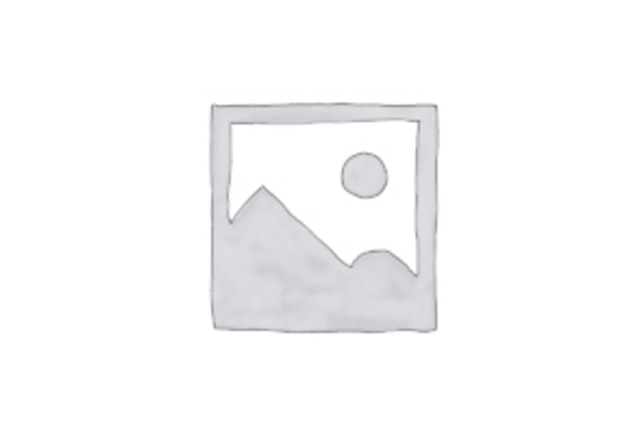
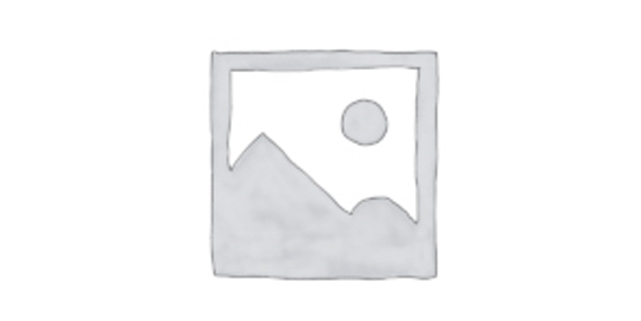
redigeret i billeder og added baggrund til bokse

diff --git a/src/main/resources/templates/index.html b/src/main/resources/templates/index.html
@@ -13,10 +13,11 @@
 </div>
 <div class="container w3-center">
     <div th:each="activity: ${activities}" class="box">
+        <a  th:href="@{/activity/{id}/equipment(id=${activity.id})}">
         <img src="" th:src="@{${'/images/' + activity.image}}" alt="Missing image">
         <h2 th:unless="${activity.name == null}" th:text="${activity.name}"></h2>
         <h2 th:if="${activity.name == null}" th:text="Missing Name"></h2>
-        <div style="padding: 2% 0 0 0;">
+        <div style="padding: 2% 0 2% 0;">
             <p th:unless="${activity.getRules().ageLimit == null}" th:text="'Age requirement: ' + ${activity.getRules().ageLimit}"></p>
             <p th:unless="${activity.getRules().heightLimit == null}" th:text="'Height requiment: ' + ${activity.getRules().heightLimit}"></p>
             <p th:unless="${activity.getRules().duration} == null" th:text="'Duration: ' + ${activity.getRules().duration}"></p>
@@ -25,7 +26,12 @@
             <p th:unless="${activity.getPricing().discount == null}" th:text="'Price for 10+ persons: ' + ${activity.getPricing().discount}"></p>
             <p th:text="'Available equipment: ' + ${activity.availableEquipment()} + '/' + ${activity.getEquipment().size()}"></p>
         </div>
-        <a th:href="@{/activity/{id}/equipment(id=${activity.id})}" class="w3-btn w3-green">View equipment</a>
+        </a>
+<!--        <a th:href="@{/activity/{id}/equipment(id=${activity.id})}" class="w3-btn" style="width: 100%; height: 10%; backdrop-filter: blur(5px)">-->
+<!--            <div>-->
+<!--                View equipment-->
+<!--            </div>-->
+<!--        </a>-->
     </div>
 </div>
 </body>

diff --git a/src/main/resources/static/css/masonry.css b/src/main/resources/static/css/masonry.css
@@ -28,8 +28,15 @@ html, body
     margin: 0 0 10px;
     overflow: hidden;
     break-inside: avoid;
-    background: #4CAF50;
+    /*background: #4CAF50;*/
     box-shadow: 8px 0px 7px 0px rgba(0,0,0,.3);
+    background-image: url("/images/box/boxbackground6.png");
+    background-repeat: no-repeat;
+    background-size: cover;
+    height: 100%;
+}
+.container .box a {
+    text-decoration: none;
 }
 .container .box img
 {
@@ -41,7 +48,7 @@ html, body
     padding: 0;
     margin: 0 0;
     font-size: 20px;
-    background: gold;
+    backdrop-filter: blur(10px);
 }
 .container .box p
 {
